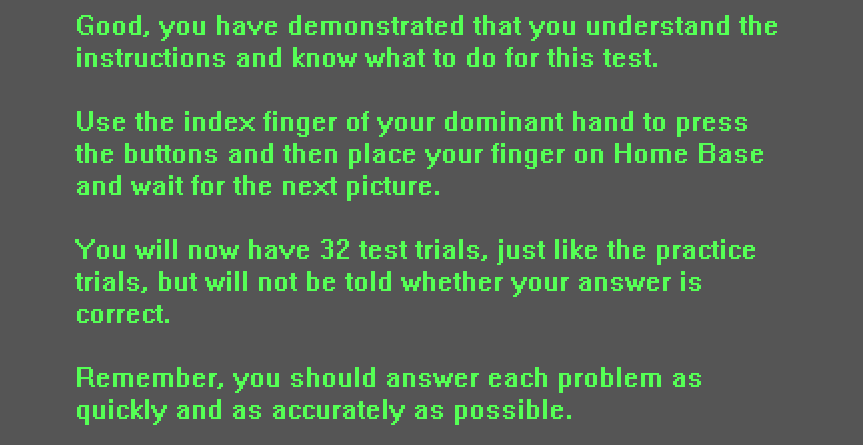
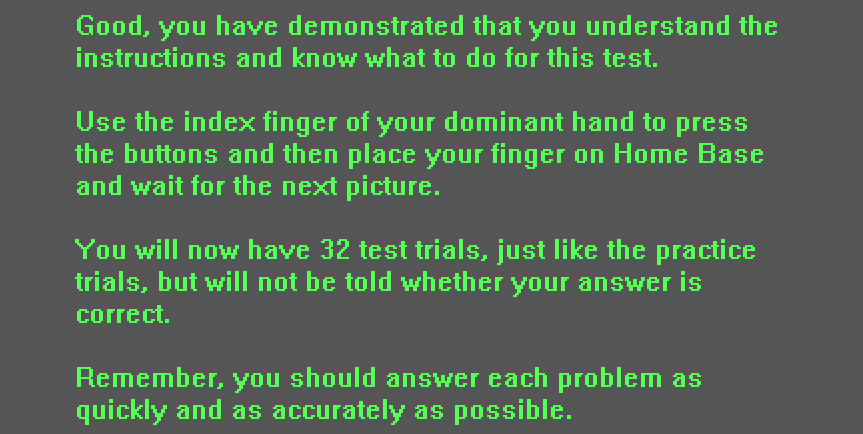
all preloading fixed, heights of images modified

diff --git a/task.php b/task.php
@@ -156,6 +156,10 @@ function exportToCsv(filename, rows) {
 			"right","left",
 			];
 
+    var correct_wrong = ["images/EX 1 C.png", "images/EX 2 C.png", "images/EX 3 C.png", "images/EX 4 C.png",
+	   		 "images/EX 1 W.png", "images/EX 2 W.png", "images/EX 3 W.png", "images/EX 4 W.png",
+			 "images/instruction3.png", "images/instruction2.png","images/instruction_example.png",
+		 	 "images/Instructions.png", "images/omission.png"];
 
     // Example slides
     var stimuli_EX =["images/EX 1.png", "images/EX 2.png", "images/EX 3.png", "images/EX 4.png"];
@@ -516,11 +520,12 @@ function exportToCsv(filename, rows) {
     };
     // Define first instruction block which uses instruction image
     var first_instruction_block = {
-	  type: 'text',
-          cont_key: 'mouse',
-	  timeline: [{text: '<center><image src="images/instruction_example.png"></center>'},
-		     {text: '<center><image src="images/instruction2.png"></center>'},
-		     {text: '<center><image src="images/instruction3.png"></center>'}],
+	  type: 'button-response',
+	  choices: ['next'],
+          //cont_key: 'mouse',
+	  timeline: [{stimulus: "images/instruction_example.png"},
+		     {stimulus: "images/instruction2.png"},
+		     {stimulus: "images/instruction3.png"}],
 	  timing_post_trial: 0,
 	  //adding is_data_element label for welcome and instruction messages
 	  on_finish: function(data){
@@ -540,6 +545,7 @@ function exportToCsv(filename, rows) {
     //preload all images used
     jsPsych.pluginAPI.preloadImages(stimuli, function(){preloadAll();});
     function preloadAll(){
+    	jsPsych.pluginAPI.preloadImages(correct_wrong);
     	jsPsych.pluginAPI.preloadImages(stimuli_EX, function(){ startExperiment(); });
     }
 
